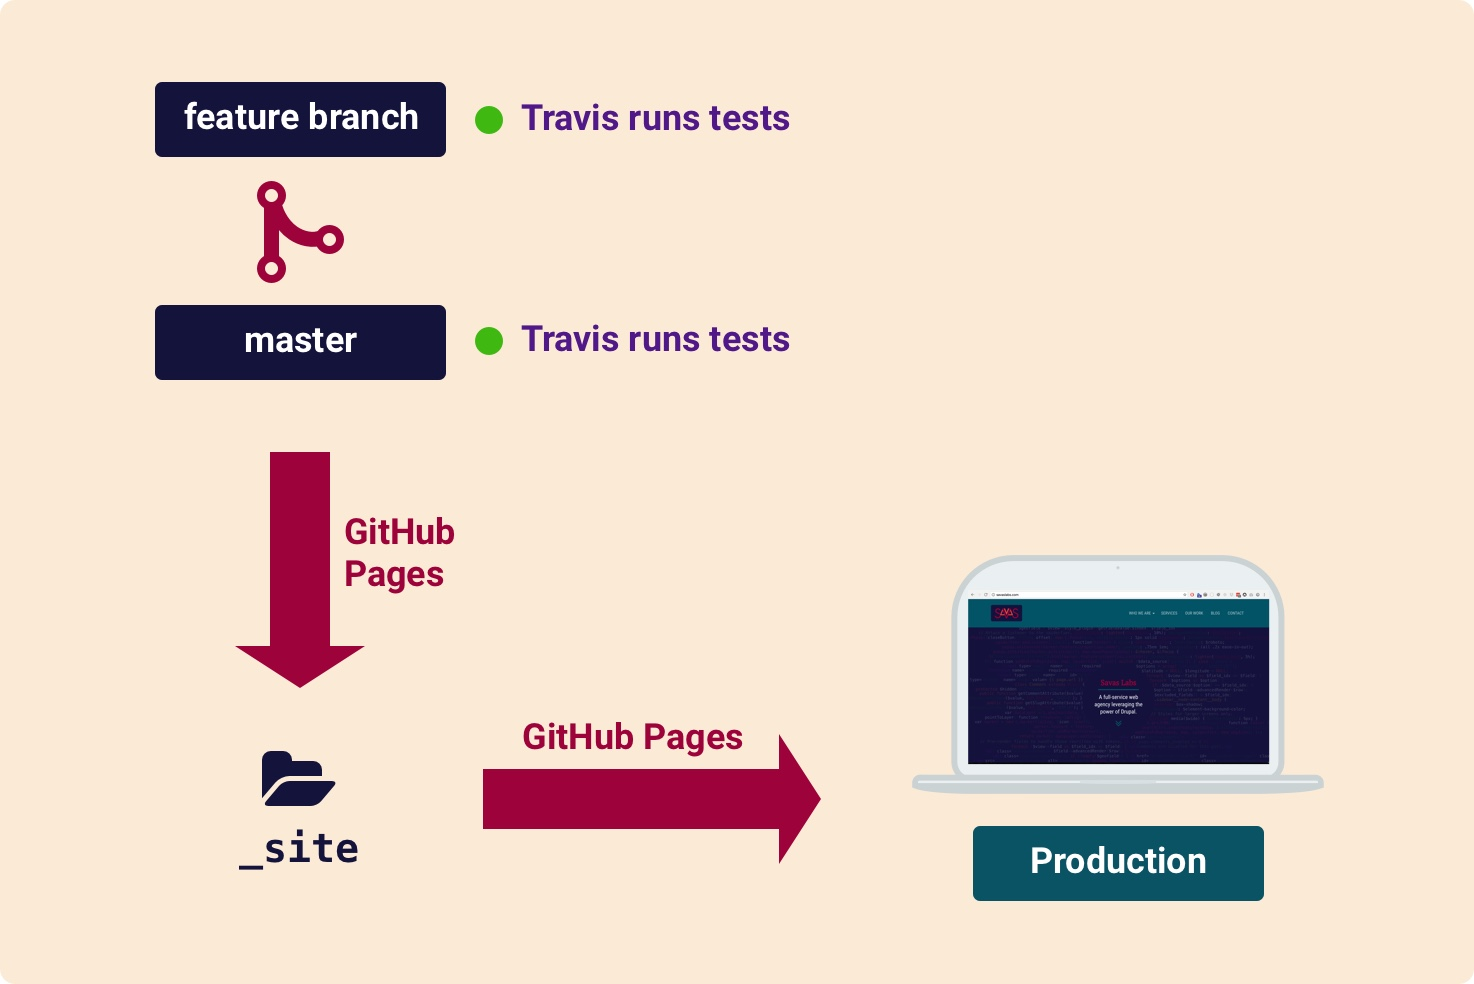
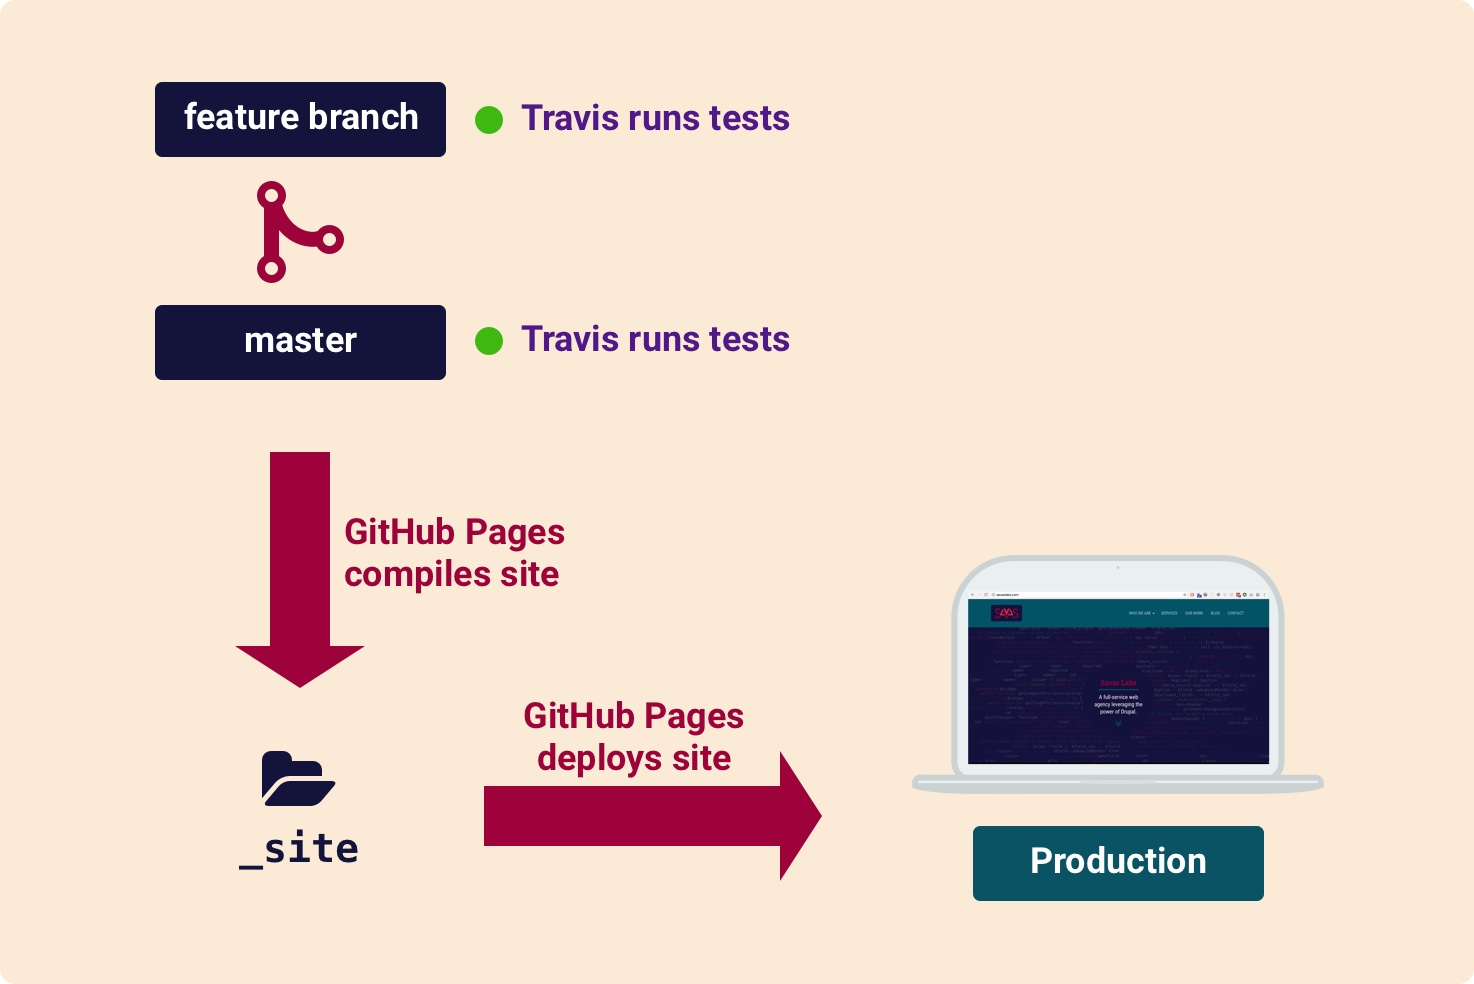
Issue #2177: Update diagrams

Changed region(s): [[0.3121, 0.7012, 0.5617, 0.8841], [0.2185, 0.5183, 0.3745, 0.6098]]

diff --git a/_posts/2016-10-25-deploy-jekyll-with-travis.md b/_posts/2016-10-25-deploy-jekyll-with-travis.md
@@ -27,7 +27,7 @@ up Travis in their [docs](https://docs.travis-ci.com/).
 Previously, Travis would build the site and run our tests, then we would merge
 branches into `master`, triggering GitHub Pages to rebuild and deploy our site.
 
-![]({{ site.url }}/assets/img/blog/original-deployment-workflow.jpg)
+![Diagram of original deployment workflow]({{ site.url }}/assets/img/blog/original-deployment-workflow.jpg)
 <span class="caption">Original deployment workflow</span>
 
 Now, we want to build our site before it gets to GitHub Pages to ensure our
@@ -41,7 +41,7 @@ builds the site.
 directory to the `master` branch, then pushes the `master` branch.
 4. This triggers GitHub Pages to deploy our pre-built site.
 
-![]({{ site.url }}/assets/img/blog/new-deployment-workflow.jpg)
+![Diagram of new deployment workflow]({{ site.url }}/assets/img/blog/new-deployment-workflow.jpg)
 <span class="caption">New deployment workflow</span>
 
 ### Create a new default branch
